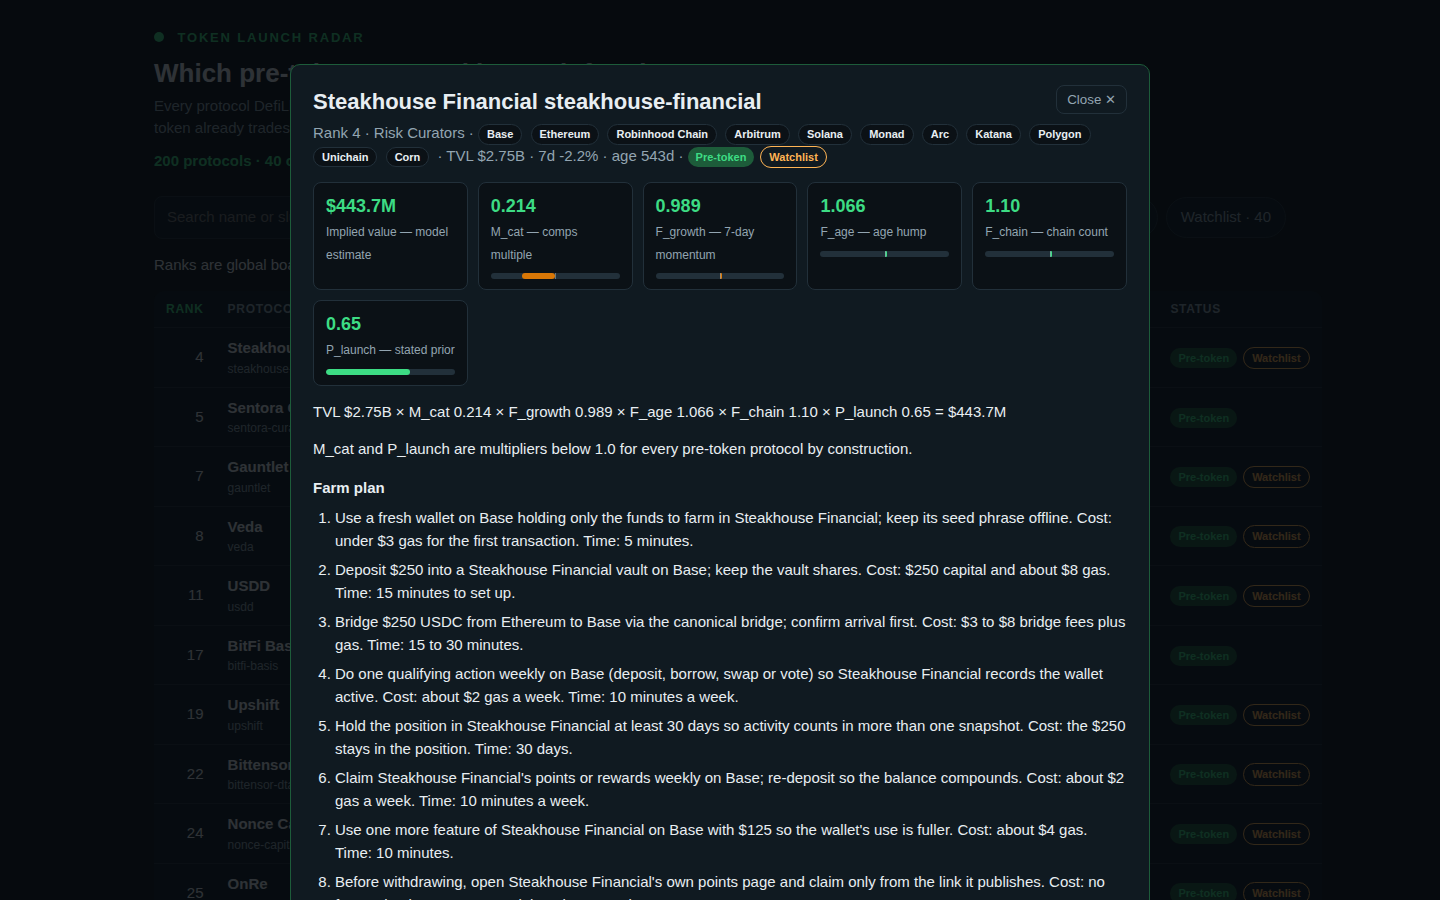
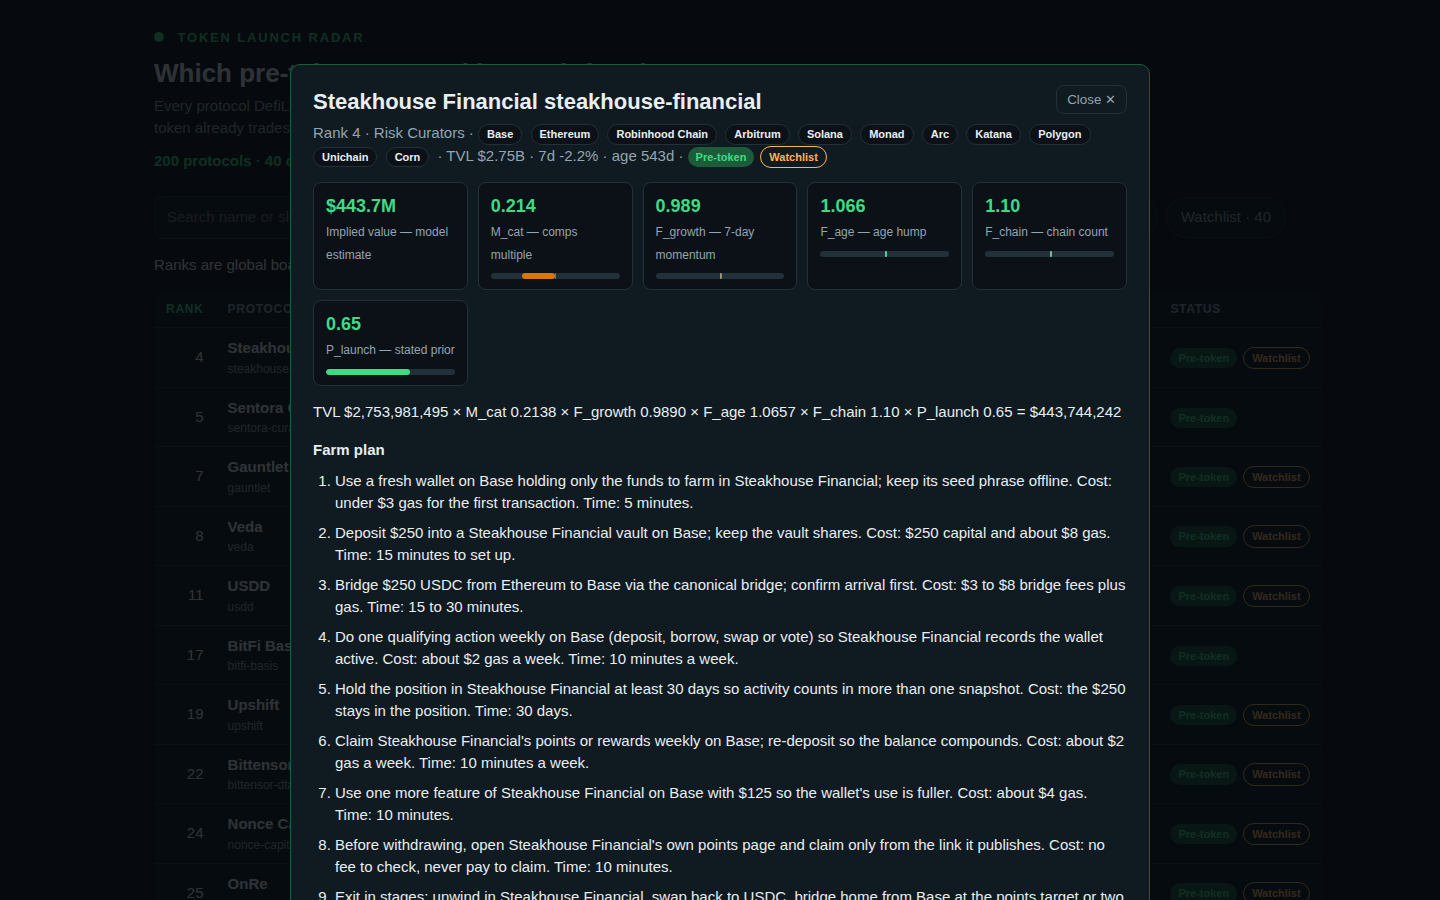
Round 9: trading-anchors screenshot, global-median chart labels, exact arithmetic + method m_global
- Screenshot 3 is now the Trading anchors view (ranks 1-3 visible, observed
  market caps) instead of the near-duplicate watchlist view. 0 bytes.
- Comps chart: bars whose source is the global fallback now read
  'global median - N comps' instead of a repeated 0.21x; caption names the
  fallback chain (TVL-range subset, else category, else global median).
  8 of 10 bars are the fallback. valX 640 -> 600 so the longer label fits.
- Arithmetic line now uses the exact TVL and stored-precision factors
  (toFixed(4)): worst error 0.50% -> 0.028%, median 0.14% -> 0.006%.
- Method section fills the global median from META.m_global (0.2138)
  instead of the hardcoded 0.205, which was wrong for the sealed snapshot.
- Removed the factually wrong 'M_cat and P_launch are multipliers below
  1.0 by construction' line (M_cat is winsorized to 20, not 1) and the
  duplicate scatter legend. Also fixed the header comment: 5 anomalies,
  not 'the one anomaly'.
- Dossier text 64,402 / 65,536 (headroom 1,134), clean. board.json and
  data.js byte-identical to round 5. Determinism byte-identical.

Changed region(s): [[0.2188, 0.4978, 0.7812, 1.0], [0.25, 0.4356, 0.7812, 0.4667]]

diff --git a/dashboard/app.js b/dashboard/app.js
@@ -1,6 +1,6 @@
 /* Token Launch Radar — board, filter, detail view. Value: round(TVL x M_cat x
  * F_growth x F_age x F_chain x P_launch) for pre-token; observed market cap for
- * trading anchors; TVL x M_cat for the one anomaly. Full model in index.html. */
+ * trading anchors; TVL x M_cat for anomalies. Full model in index.html. */
 
 // The board data, embedded by main.ts when it builds the output (an empty array here).
 // Rows are positional arrays [rank, slug, name, category, chains, tvl, 7d, age, value,
@@ -28,6 +28,7 @@ function fmtUSD(n) {
   if (n >= 1e3) return '$' + Math.round(n / 1e3) + 'K';
   return '$' + n;
 }
+function fmtExact(n) { return '$' + Math.round(n).toLocaleString('en-US'); }
 function fmtPct(v) {
   if (v === null || v === undefined) return '—';
   return (v > 0 ? '+' : '') + v.toFixed(1) + '%';
@@ -180,7 +181,7 @@ function showDetail(slug) {
   if (!r) return;
   const launch = r.launch_probability === null ? '—' : r.launch_probability.toFixed(2);
   const mcat = r.m_cat === 0 ? 'observed mcap' : r.m_cat.toFixed(3);
-  const arith = r.status === 'pre-token' ? `TVL ${fmtUSD(r.tvl_usd)} × M_cat ${r.m_cat.toFixed(3)} × F_growth ${r.growth_multiplier.toFixed(3)} × F_age ${r.age_multiplier.toFixed(3)} × F_chain ${r.chain_multiplier.toFixed(2)} × P_launch ${launch} = ${fmtUSD(r.implied_value_usd)}` : r.status === 'trading-anomaly' ? `TVL ${fmtUSD(r.tvl_usd)} × M_cat ${r.m_cat.toFixed(3)} = ${fmtUSD(r.implied_value_usd)}` : '';
+  const arith = r.status === 'pre-token' ? `TVL ${fmtExact(r.tvl_usd)} × M_cat ${r.m_cat.toFixed(4)} × F_growth ${r.growth_multiplier.toFixed(4)} × F_age ${r.age_multiplier.toFixed(4)} × F_chain ${r.chain_multiplier.toFixed(2)} × P_launch ${launch} = ${fmtExact(r.implied_value_usd)}` : r.status === 'trading-anomaly' ? `TVL ${fmtExact(r.tvl_usd)} × M_cat ${r.m_cat.toFixed(4)} = ${fmtExact(r.implied_value_usd)}` : '';
   detailEl.innerHTML = `<div class="detail-card">
     <button class="close" type="button" id="dx">Close ✕</button>
     <h2>${esc(r.name)} <span class="slug">${esc(r.slug)}</span></h2>
@@ -194,7 +195,6 @@ function showDetail(slug) {
       ${r.status === 'trading' ? '' : factorCard('P_launch', launch, 'stated prior', r.launch_probability, true)}
     </div>
     ${arith ? `<p class="fine">${arith}</p>` : ''}
-    ${r.status === 'trading' ? '' : '<p class="fine">M_cat and P_launch are multipliers below 1.0 for every pre-token protocol by construction.</p>'}
     ${r.status === 'trading' ? '<p class="fine">This protocol already trades: its implied value is the observed market cap. The comps factors do not apply.</p>' : ''}
     <h3>Farm plan</h3>
     <ol id="farm">${farmPort(r.name, r.category, r.chains, r.tvl_usd, r.age_days).map((s) => `<li>${esc(s)}</li>`).join('')}</ol>
@@ -246,7 +246,7 @@ function renderChart() {
     .slice(0, 10);
   if (!rows.length) { el.innerHTML = '<p class="fine">No comps data.</p>'; return; }
   const max = rows[0].multiple;
-  const W = 760, barH = 22, gap = 6, labelW = 170, valX = 640;
+  const W = 760, barH = 22, gap = 6, labelW = 170, valX = 600;
   const H = rows.length * (barH + gap) + 8;
   const barArea = valX - labelW - 12;
   const bars = rows.map((c, i) => {
@@ -254,10 +254,10 @@ function renderChart() {
     const w = Math.max(2, Math.round((barArea * c.multiple) / max));
     return `<text x="0" y="${y + 15}" class="clabel">${esc(c.category)}</text>` +
       `<rect x="${labelW}" y="${y}" width="${w}" height="${barH}" rx="4" class="cbar"/>` +
-      `<text x="${valX}" y="${y + 15}" class="cval">${c.multiple.toFixed(2)}× · ${c.comps} comps</text>`;
+      `<text x="${valX}" y="${y + 15}" class="cval">${c.source === 'global' ? 'global median · ' + c.comps + ' comps' : c.multiple.toFixed(2) + '× · ' + c.comps + ' comps'}</text>`;
   }).join('');
   el.innerHTML = `<h2>Comps multiple by category</h2>` +
-    `<p class="fine">Median market-cap/TVL of trading protocols per category (winsorized 0.05–20). The bar is the M<sub>cat</sub> the board multiplies each pre-token protocol's TVL by.</p>` +
+    `<p class="fine">Median market-cap/TVL of trading protocols per category (winsorized 0.05–20, TVL-range subset, else the category, else the global median — those bars say so). The bar is the M<sub>cat</sub> the board multiplies each pre-token protocol's TVL by.</p>` +
     `<svg viewBox="0 0 ${W} ${H}" width="100%" role="img" aria-label="Comps multiple by category">${bars}</svg>`;
 }
 
@@ -295,8 +295,7 @@ function renderScatter() {
     `<p class="fine">Each dot is one board row (log scales). Blue = pre-token, green = trading anchor, red = anomaly. Value tracks TVL through the comps multiple; trading rows sit on their observed market cap.</p>` +
     `<svg viewBox="0 0 ${W} ${H}" width="100%" role="img" aria-label="TVL versus implied value scatter">${grid}${dots}` +
     `<text x="${(ML + W - MR) / 2}" y="${H - 8}" class="saxis" text-anchor="middle">TVL (log)</text>` +
-    `<text x="14" y="${(MT + H - MB) / 2}" class="saxis" text-anchor="middle" transform="rotate(-90 14 ${(MT + H - MB) / 2})">Implied value (log)</text></svg>` +
-    `<p class="fine"><span style="color:#2563eb">●</span> pre-token &nbsp; <span style="color:#16a34a">●</span> trading &nbsp; <span style="color:#dc2626">●</span> anomaly</p>`;
+    `<text x="14" y="${(MT + H - MB) / 2}" class="saxis" text-anchor="middle" transform="rotate(-90 14 ${(MT + H - MB) / 2})">Implied value (log)</text></svg>`;
 }
 
 function init() {
@@ -309,9 +308,10 @@ function init() {
   const pillAll = $('pillAll'), pillWl = $('pillWl');
   if (pillAll) pillAll.textContent = 'All ' + BOARD.length;
   if (pillWl) pillWl.textContent = 'Watchlist · ' + (META ? META.watchlist_size : 40);
-  const snapDate = $('snapDate'), snapModel = $('snapModel'), footDate = $('footDate'), footModel = $('footModel');
+  const snapDate = $('snapDate'), snapModel = $('snapModel'), footDate = $('footDate'), footModel = $('footModel'), globMed = $('globMed');
   if (snapDate) snapDate.textContent = META ? META.as_of : '2026-11-14';
   if (snapModel) snapModel.textContent = META ? META.model_version : 'radar-v2-comps';
+  if (globMed) globMed.textContent = META ? META.m_global.toFixed(4) : '0.205';
   if (footDate) footDate.textContent = META ? META.as_of : '2026-11-14';
   if (footModel) footModel.textContent = META ? META.model_version : 'radar-v2-comps';
   const pre = BOARD.filter((r) => r.status === 'pre-token').length;

diff --git a/dashboard/index.html b/dashboard/index.html
@@ -57,7 +57,7 @@
   <h2>How this radar works</h2>
   <p><strong>Implied value</strong> = TVL × M<sub>cat</sub> × F<sub>growth</sub> × F<sub>age</sub> × F<sub>chain</sub> × P<sub>launch</sub>, for a protocol that records no token. A protocol whose token already trades is valued at its observed market cap instead, and marked as a trading anchor.</p>
   <ul>
-    <li><strong>M<sub>cat</sub></strong> — the comps multiple: the median market-cap/TVL of trading protocols in the same category and of similar size (TVL within 0.2×–5×), winsorized to 0.05–20, at least 5 comps, else the category median, else the global median (0.205). No name is ever special-cased.</li>
+    <li><strong>M<sub>cat</sub></strong> — the comps multiple: the median market-cap/TVL of trading protocols in the same category and of similar size (TVL within 0.2×–5×), winsorized to 0.05–20, at least 5 comps, else the category median, else the global median (<span id="globMed">0.205</span>). No name is ever special-cased.</li>
     <li><strong>F<sub>growth</sub></strong> — seven-day TVL momentum, capped at −50% to +100%.</li>
     <li><strong>F<sub>age</sub></strong> — a hump: trust grows to 1.15 at two years without a token, then fades to 0.95; unknown age scores 0.90.</li>
     <li><strong>F<sub>chain</sub></strong> — 1.00 for one chain, 1.05 for two or three, 1.10 for four or more.</li>
